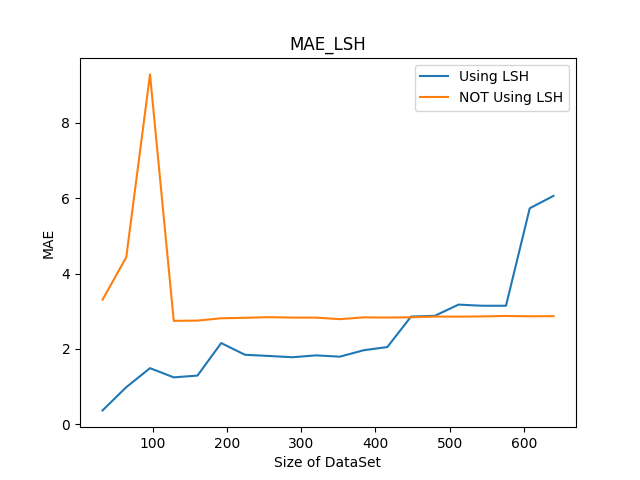
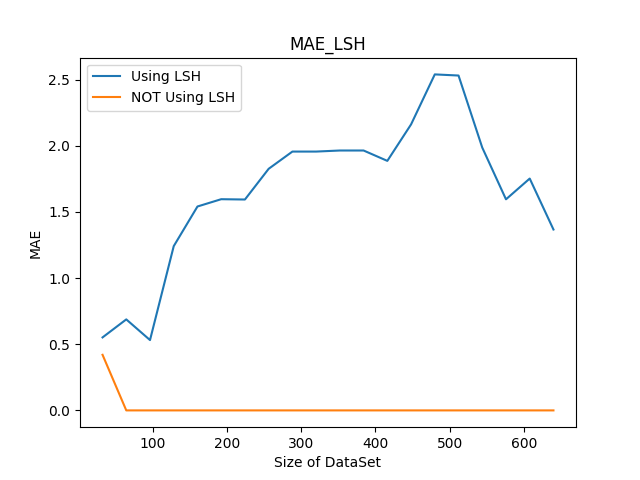
Modify User Vector Generate Strategy.

diff --git a/exec.py b/exec.py
@@ -4,7 +4,7 @@ from datetime import datetime
 import numpy as np
 
 from calc import Platform
-from utils import read_with_cache, evaluate, plot_and_save
+from utils import read_with_cache, evaluate, generate_random_user_vec, plot_and_save
 
 __author__ = 'i@AngelMsger.Com'
 
@@ -29,7 +29,7 @@ def test_lsh(collection, lsh_hashes, offset=32, step=32, test_count=8) -> None:
 
     for i in range(test_count):
         print('%s...' % i)
-        user_vec = np.random.randint(0, 6, (items_size,))
+        user_vec = generate_random_user_vec(items_size)
         for j, value in enumerate(size_of_data_set):
             amazon = Platform('亚马逊', lsh_hashes, data=collection[:value])
             start = datetime.now()
@@ -80,7 +80,7 @@ def test_he(collection, lsh_hashes, test_count=64) -> None:
 
     for i in range(test_count):
         # 假设新到达一个用户，要求产生推荐结果
-        user_vec = np.random.randint(0, 6, (items_size,))
+        user_vec = generate_random_user_vec(items_size)
 
         start = datetime.now()
         result = ali.recommend(user_vec, apply_for_subscribers=True)

diff --git a/utils.py b/utils.py
@@ -3,6 +3,7 @@ import os
 import warnings
 from csv import DictReader
 from datetime import datetime
+from random import randint, shuffle
 
 import numpy as np
 from matplotlib import pyplot as plt
@@ -184,6 +185,21 @@ def plot_and_save(x, ys, legends, x_label, y_label, figure_name) -> None:
     plt.xlabel(x_label)
     plt.ylabel(y_label)
     plt.savefig('%s.png' % os.path.join('assets', figure_name))
+
+
+def generate_random_user_vec(length):
+    """
+    生成模拟的随机用户评分向量
+    :param length: 向量长度
+    :return: 随机用户评分向量
+    """
+    user_vec = np.zeros((length,))
+    size = randint(24, 2048)
+    index = [i for i in range(length)]
+    shuffle(index)
+    for i in index[:size]:
+        user_vec[i] = randint(1, 6)
+    return user_vec
 
 
 def log_duration(func):
